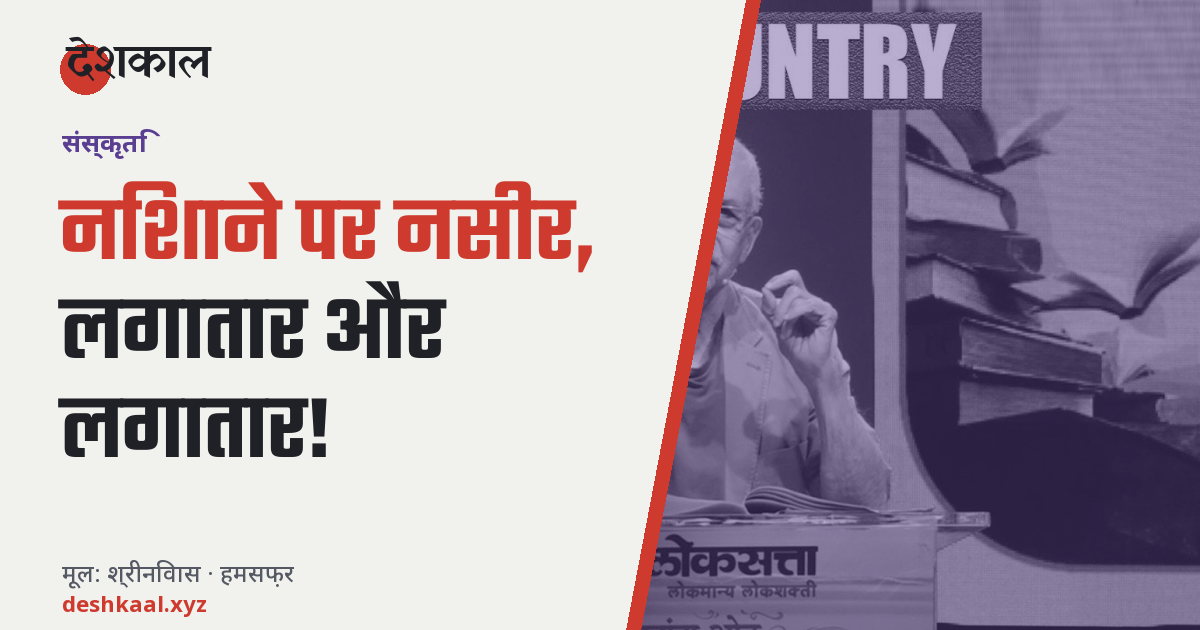
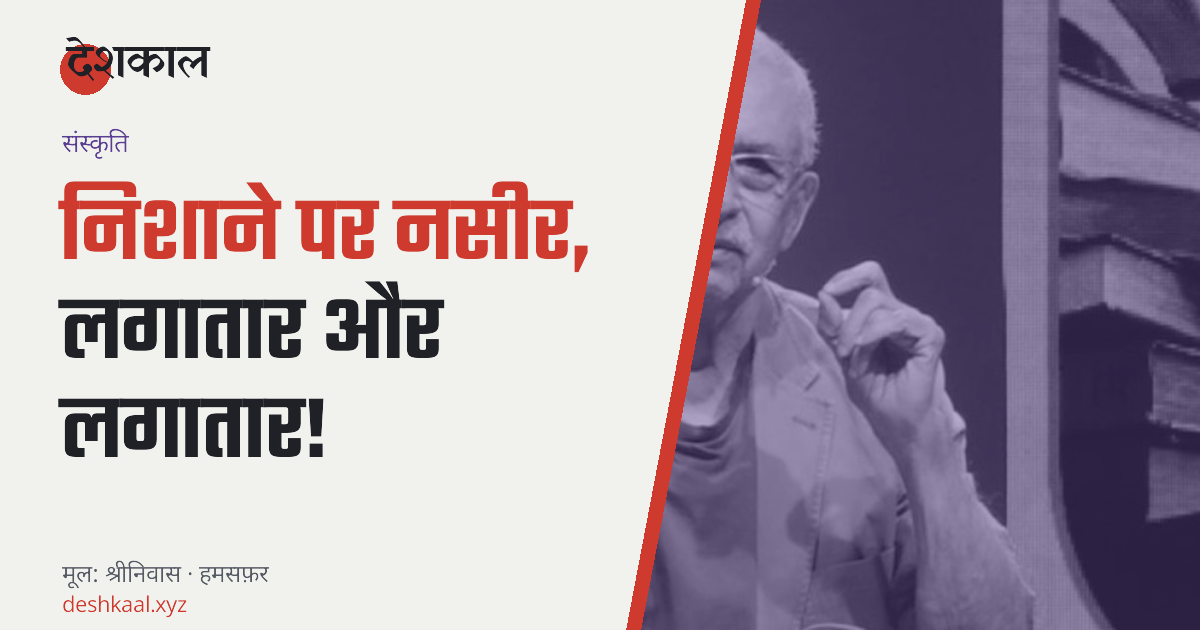
हमसफ़र: ‘निशाने पर नसीर’ — प्रीव्यू कार्ड की देवनागरी शेपिंग और वर्तनी सुधरी

diff --git a/scripts/og.py b/scripts/og.py
@@ -165,7 +165,7 @@ def main():
         if os.path.exists(out) and not redo: continue
         item = {"id": w["id"], "h": w["h"], "by": w["by"], "cat": w.get("cat", "साहित्य"), "pub": "हमसफ़र", "photo": None}
         ph = None
-        src = ((w.get("images") or [{}])[0].get("src")) or w.get("photo")
+        src = w.get("ogImage") or ((w.get("images") or [{}])[0].get("src")) or w.get("photo")
         # SVG/डेटा-URI को Pillow नहीं खोल सकता; ऐसी सूरत में बिना तस्वीर का कार्ड बने, पूरा नौबत न आए.
         if src and src.startswith("/") and src.lower().rsplit(".", 1)[-1] in ("jpg", "jpeg", "png", "webp"):
             local = os.path.join(ROOT, "public", src.lstrip("/"))
